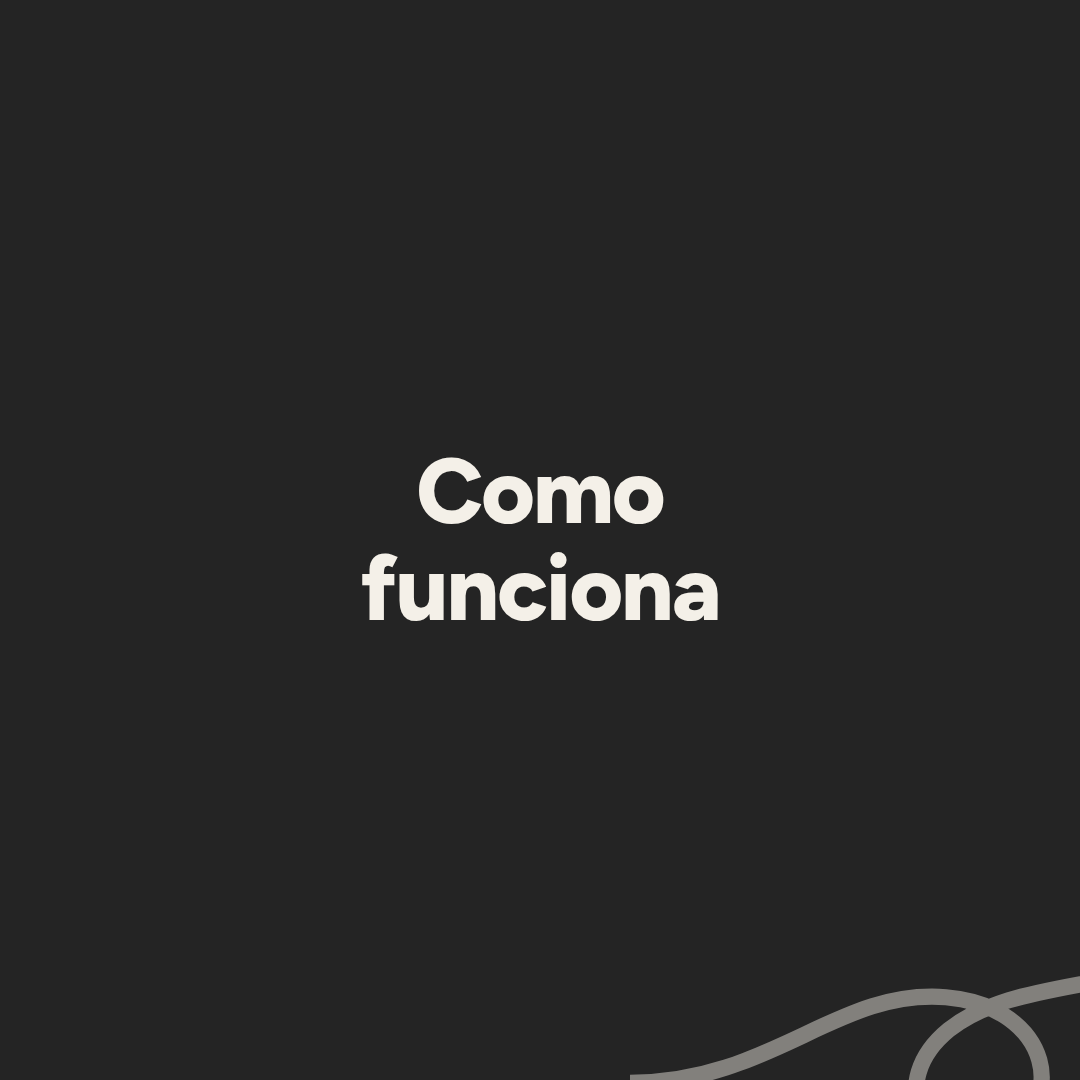
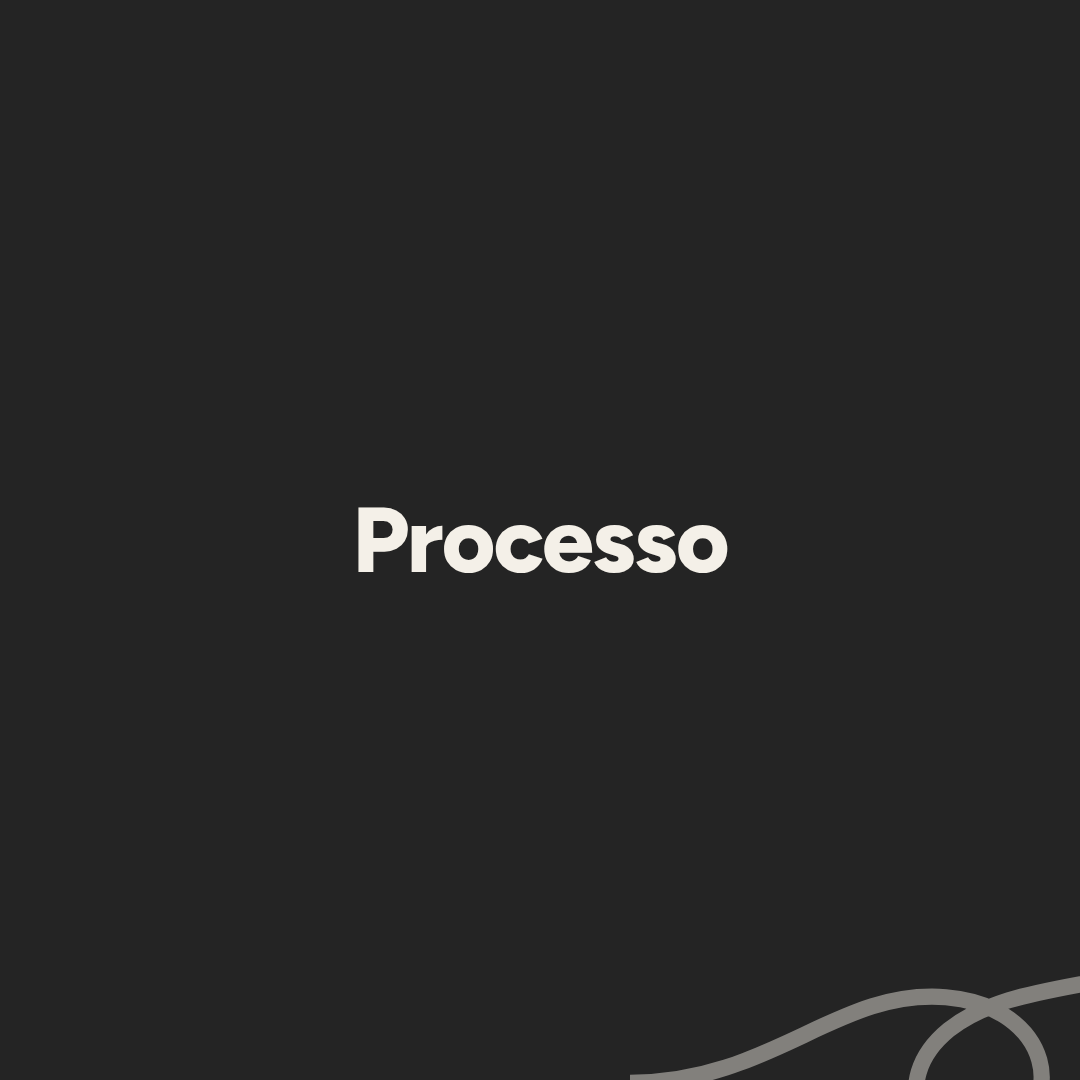
Ajusta a capa e documenta os nomes dos destaques
"Como funciona" não cabe no nome do destaque — o Instagram corta por volta de
10 caracteres e viraria "Como funci...". A capa passa a dizer "Processo", que
é o nome que cabe.

textos.md ganha os quatro nomes, a ordem de criação (inversa, porque o mais
recente fica à esquerda), o que vai dentro de cada um, e o detalhe que trava
quem nunca fez: destaque não existe sem um story dentro.

Claude-Session: https://claude.ai/code/session_01WhLyU9cwCcQu3ZVdixgzXu

Changed region(s): [[0.3056, 0.4278, 0.6722, 0.5806]]

diff --git a/instagram/arte.html b/instagram/arte.html
@@ -206,7 +206,7 @@ body{background:#777;font-family:'Figtree',system-ui,sans-serif;}
 <!-- ============ capas de destaques ============ -->
 <div class="capa" data-nome="destaque-servicos"><span>Serviços</span>
   <svg class="laco" viewBox="0 0 420 300"><path d="M0 214 C 96 214, 140 150, 214 156 C 286 162, 300 232, 246 250 C 200 265, 172 214, 216 178 C 268 136, 372 158, 420 96"/></svg></div>
-<div class="capa capa--escura" data-nome="destaque-processo"><span>Como<br>funciona</span>
+<div class="capa capa--escura" data-nome="destaque-processo"><span>Processo</span>
   <svg class="laco" viewBox="0 0 420 300"><path d="M0 214 C 96 214, 140 150, 214 156 C 286 162, 300 232, 246 250 C 200 265, 172 214, 216 178 C 268 136, 372 158, 420 96"/></svg></div>
 <div class="capa" data-nome="destaque-duvidas"><span>Dúvidas</span>
   <svg class="laco" viewBox="0 0 420 300"><path d="M0 214 C 96 214, 140 150, 214 156 C 286 162, 300 232, 246 250 C 200 265, 172 214, 216 178 C 268 136, 372 158, 420 96"/></svg></div>

diff --git a/instagram/textos.md b/instagram/textos.md
@@ -71,9 +71,32 @@ https://wa.me/5512991338866?text=Ol%C3%A1!%20Vim%20pelo%20Instagram%20da%20Desat
 ```
 
 ### Destaques
-As capas estão em `artes/destaque-*.png`: Serviços, Como funciona, Dúvidas e
-Contato. Crie os quatro mesmo com pouco conteúdo — um destaque vazio é melhor
-que nenhum, porque ele diz que você tem resposta para aquilo.
+
+O nome do destaque é o texto embaixo da bolinha, e o Instagram corta por volta
+de 10 caracteres. Por isso os quatro são curtos:
+
+| Capa | Nome |
+|---|---|
+| `artes/destaque-servicos.png` | Serviços |
+| `artes/destaque-processo.png` | Processo |
+| `artes/destaque-duvidas.png` | Dúvidas |
+| `artes/destaque-contato.png` | Contato |
+
+**Um destaque não existe sem story dentro.** Primeiro publique o story, depois
+crie o destaque a partir dele e só então troque a capa (Editar destaque →
+Editar capa → escolher da galeria).
+
+**Crie na ordem inversa**: Contato, Dúvidas, Processo, Serviços. O destaque mais
+recente fica à esquerda, então criando ao contrário eles acabam na ordem certa.
+
+O que colocar dentro de cada um, no mínimo:
+
+| Destaque | Conteúdo |
+|---|---|
+| Serviços | Um story por frente: sites, sistemas, automações. |
+| Processo | As cinco telas do carrossel, uma por story. |
+| Dúvidas | Um story por pergunta: preço, prazo, domínio. |
+| Contato | Um story com o botão de WhatsApp e o link. |
 
 ---
 
